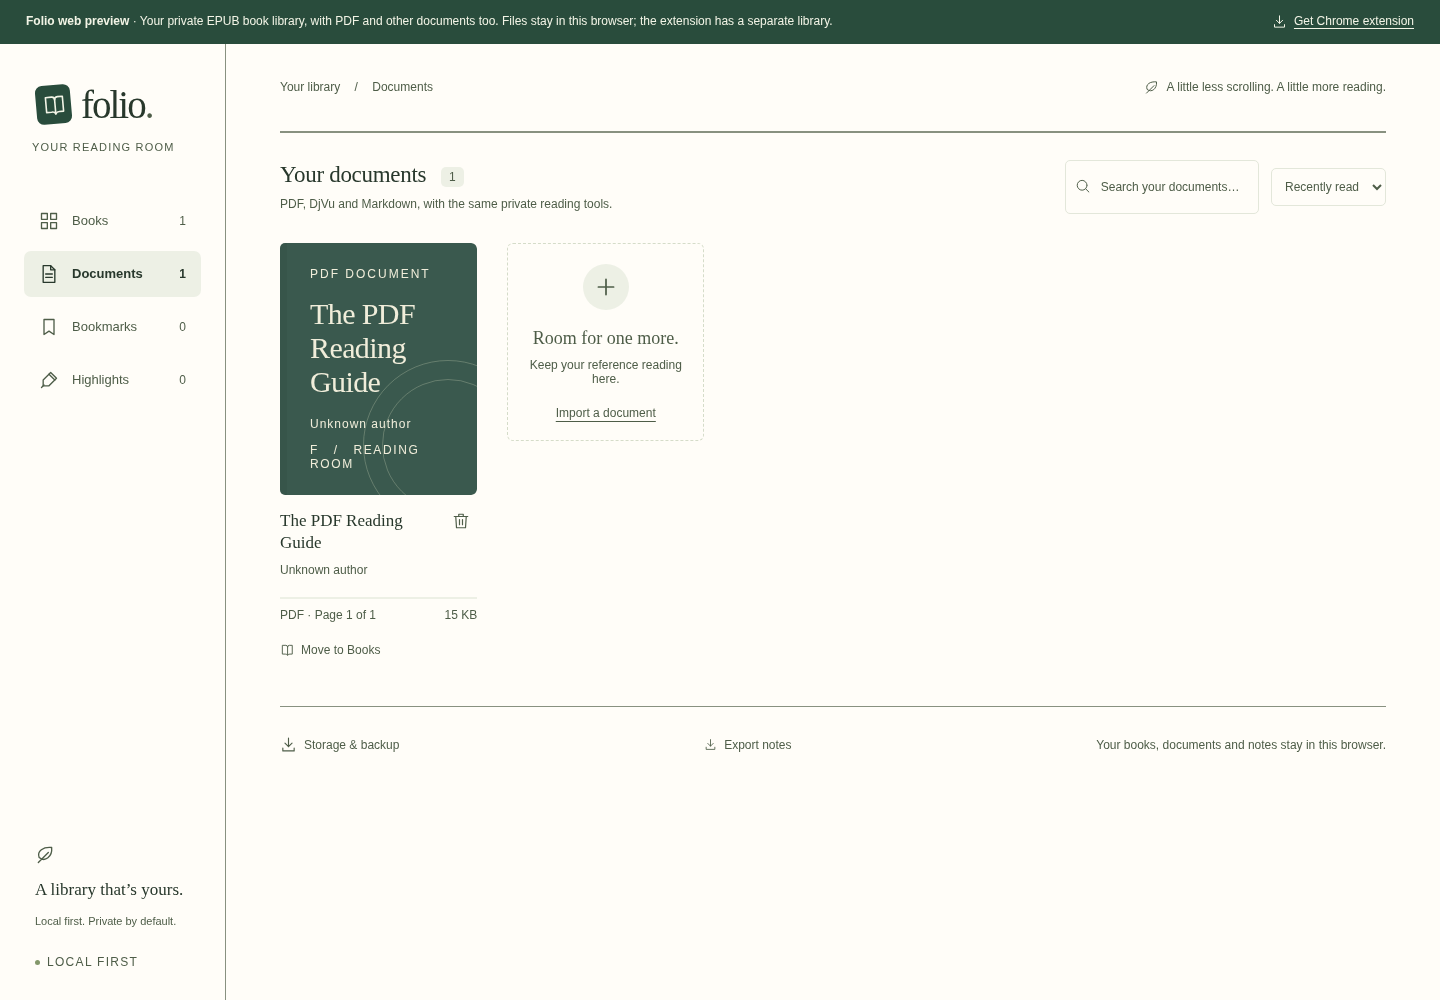
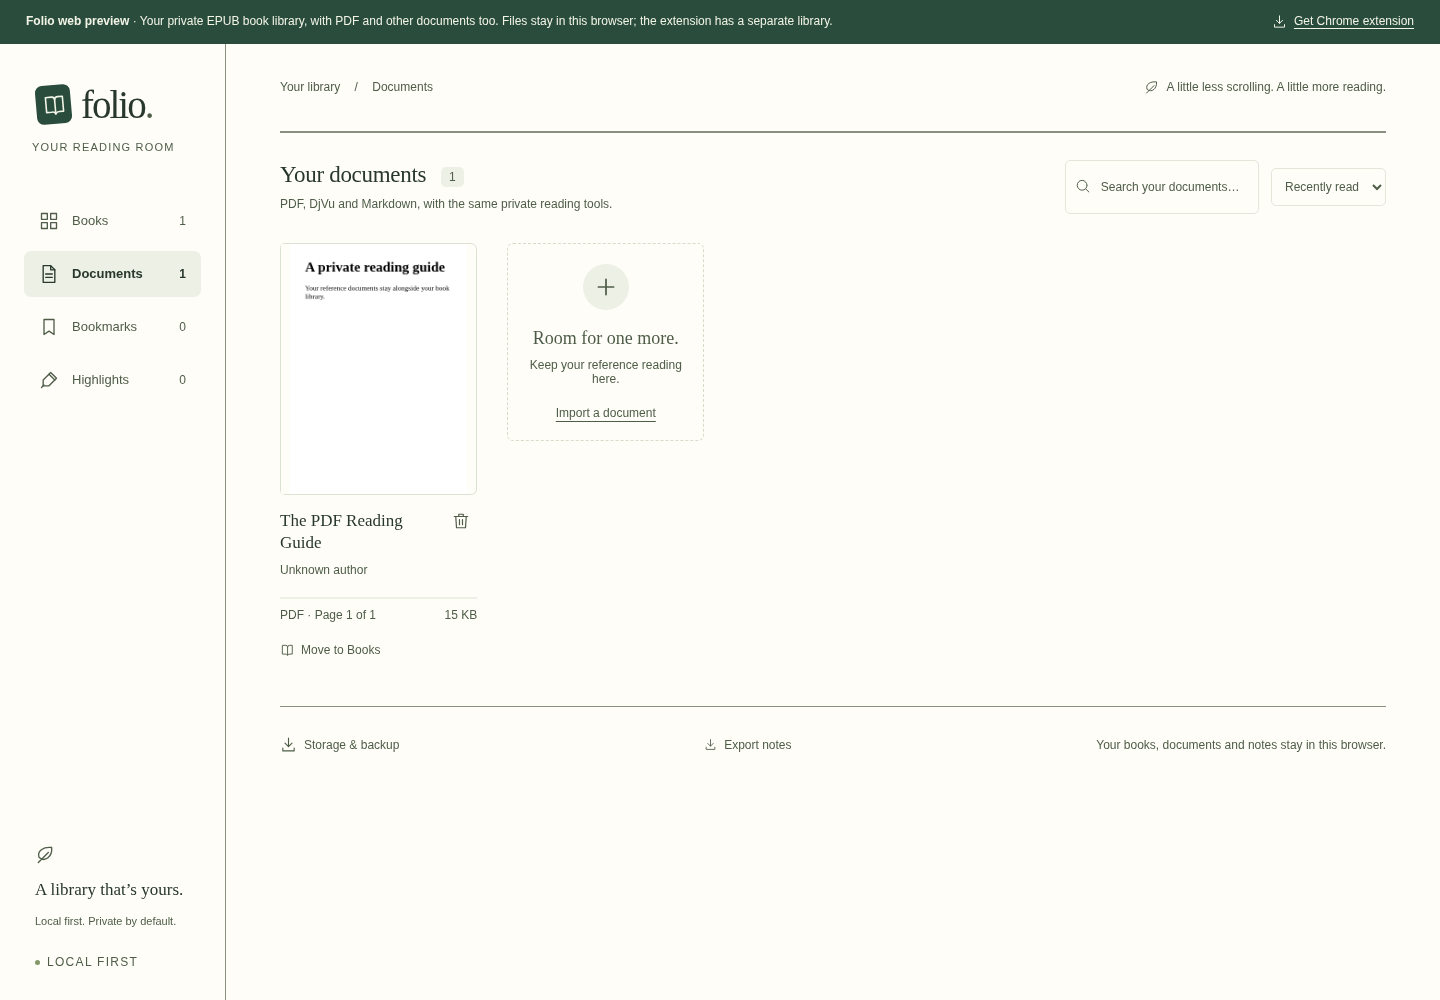
Display cached cover images before painting library cards

Changed region(s): [[0.1875, 0.217, 0.3438, 0.496]]

diff --git a/src/App.tsx b/src/App.tsx
@@ -3,6 +3,7 @@ import {
   useId,
   useMemo,
   useEffect,
+  useLayoutEffect,
   useRef,
   useState,
   type ReactNode,
@@ -139,7 +140,7 @@ function Cover({
   large?: boolean;
 }) {
   const [url, setUrl] = useState("");
-  useEffect(() => {
+  useLayoutEffect(() => {
     if (!book.cover) {
       setUrl("");
       return;
